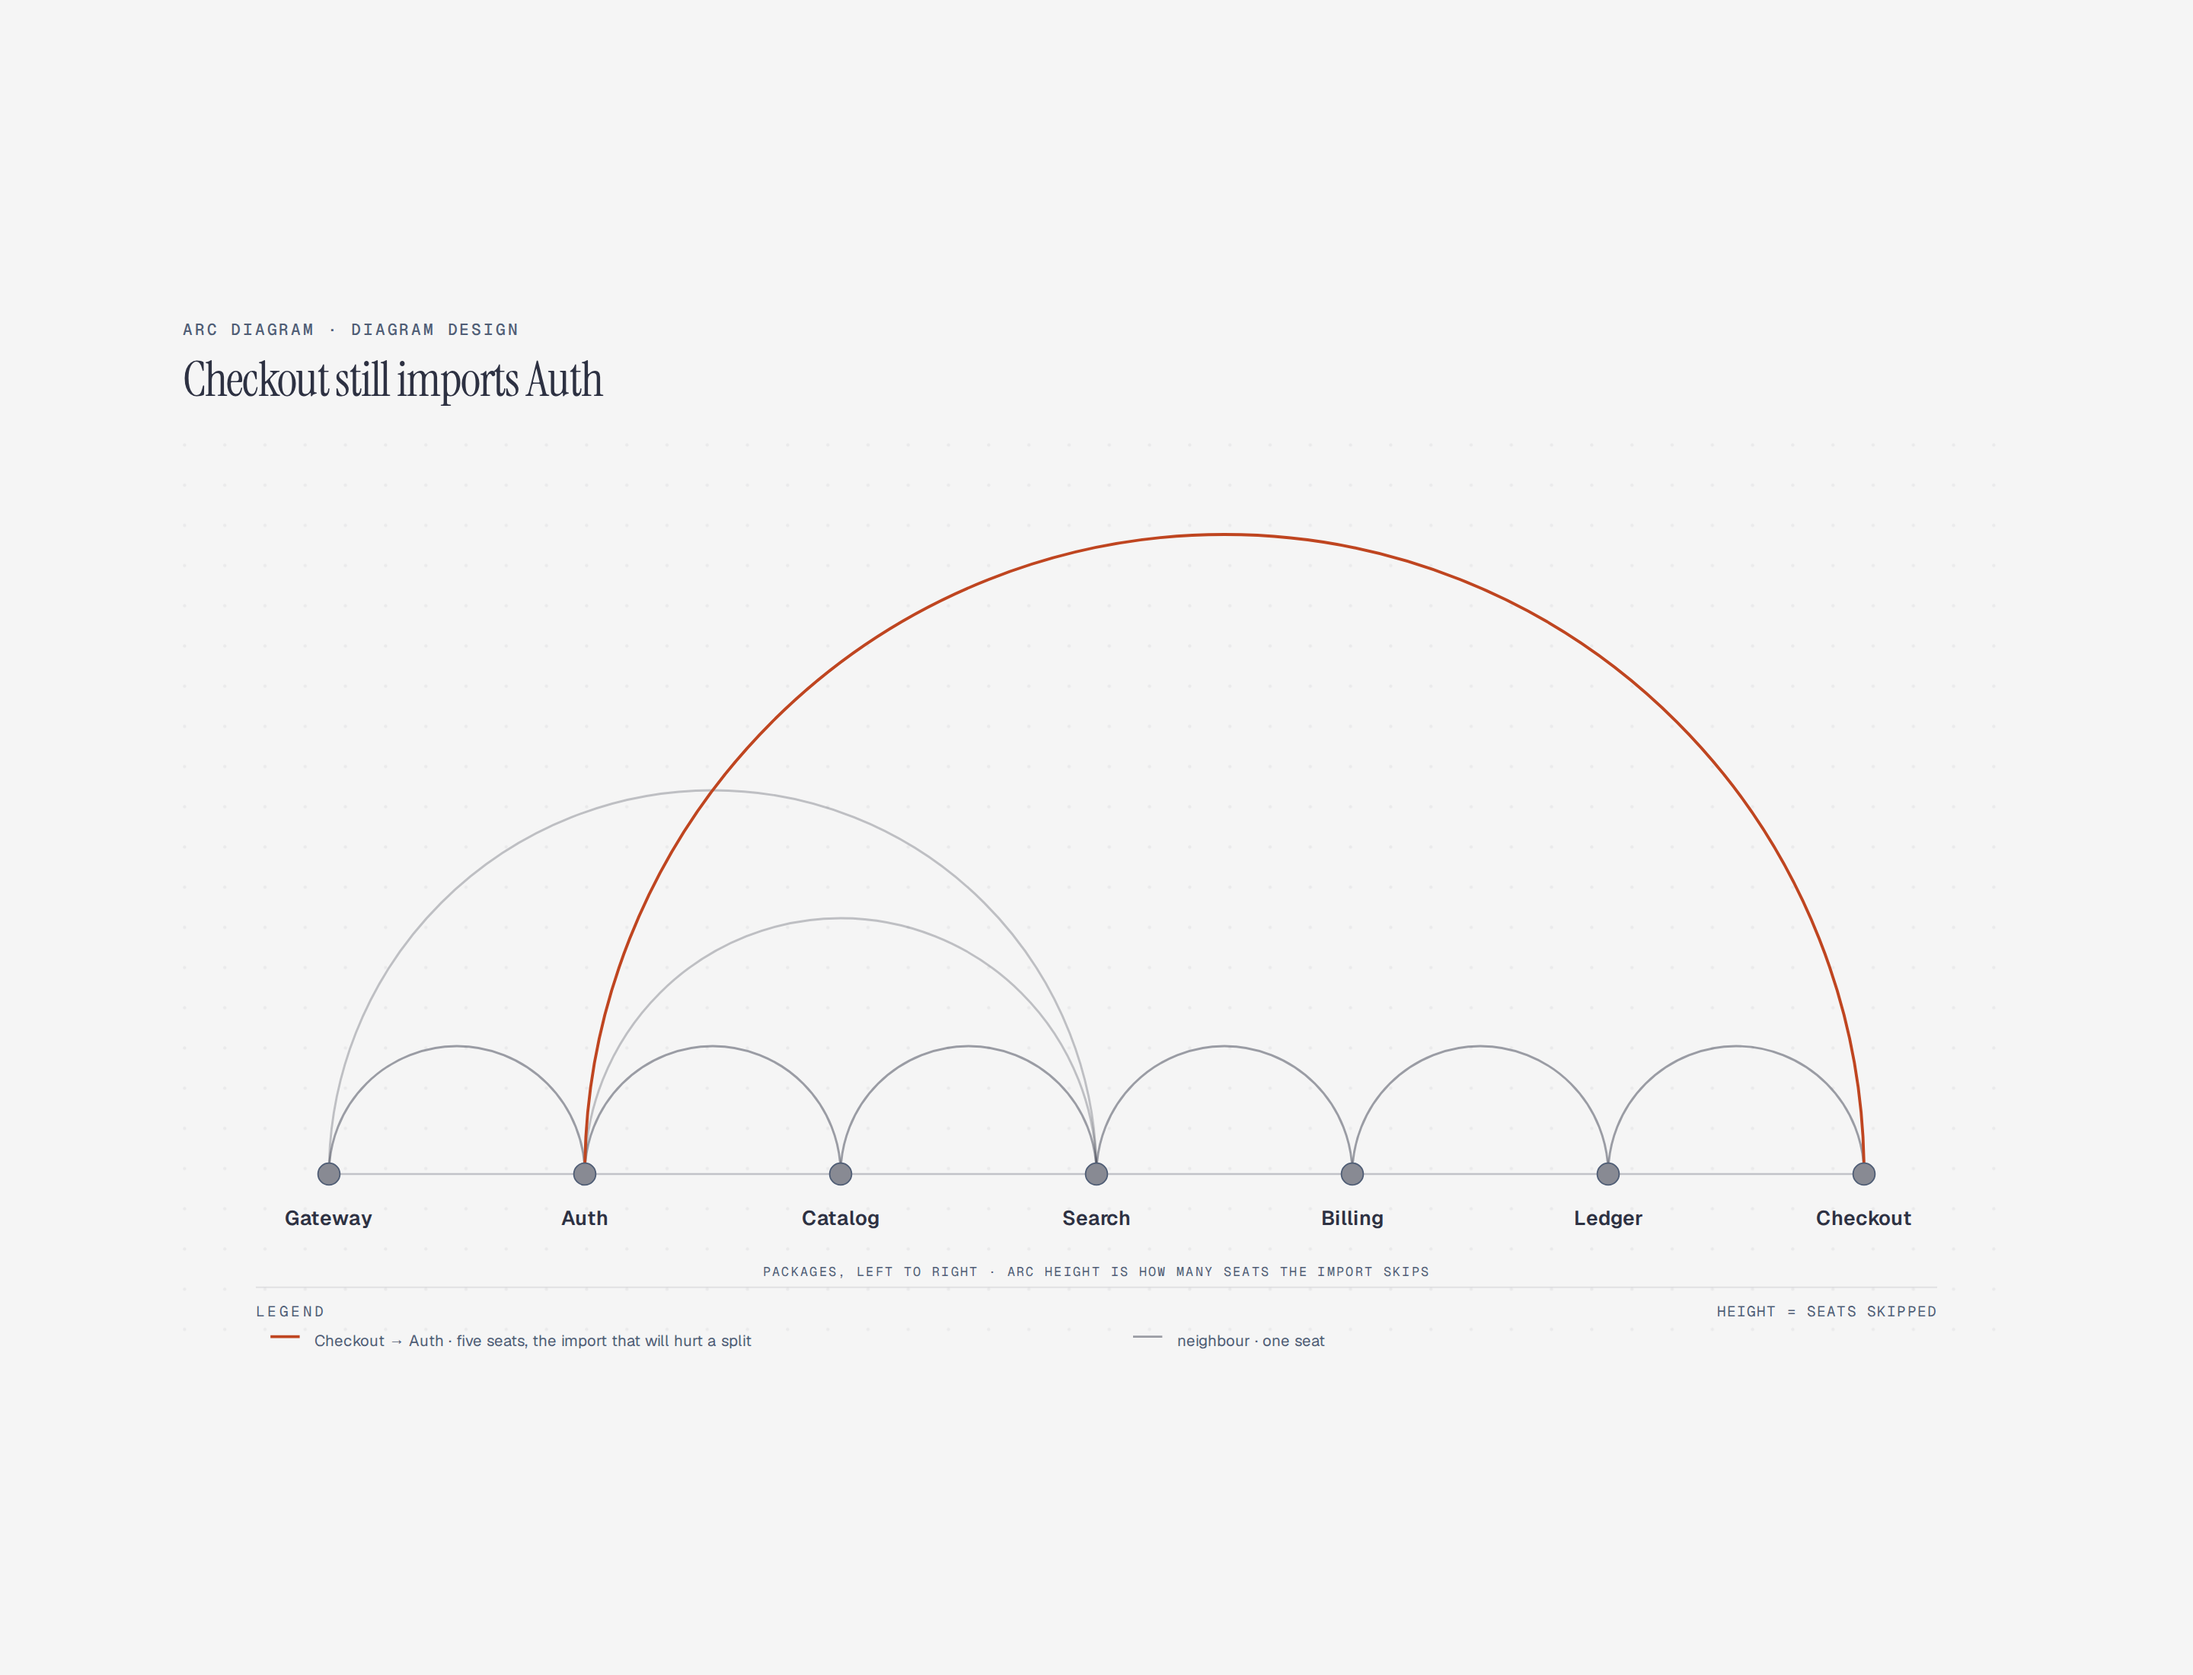
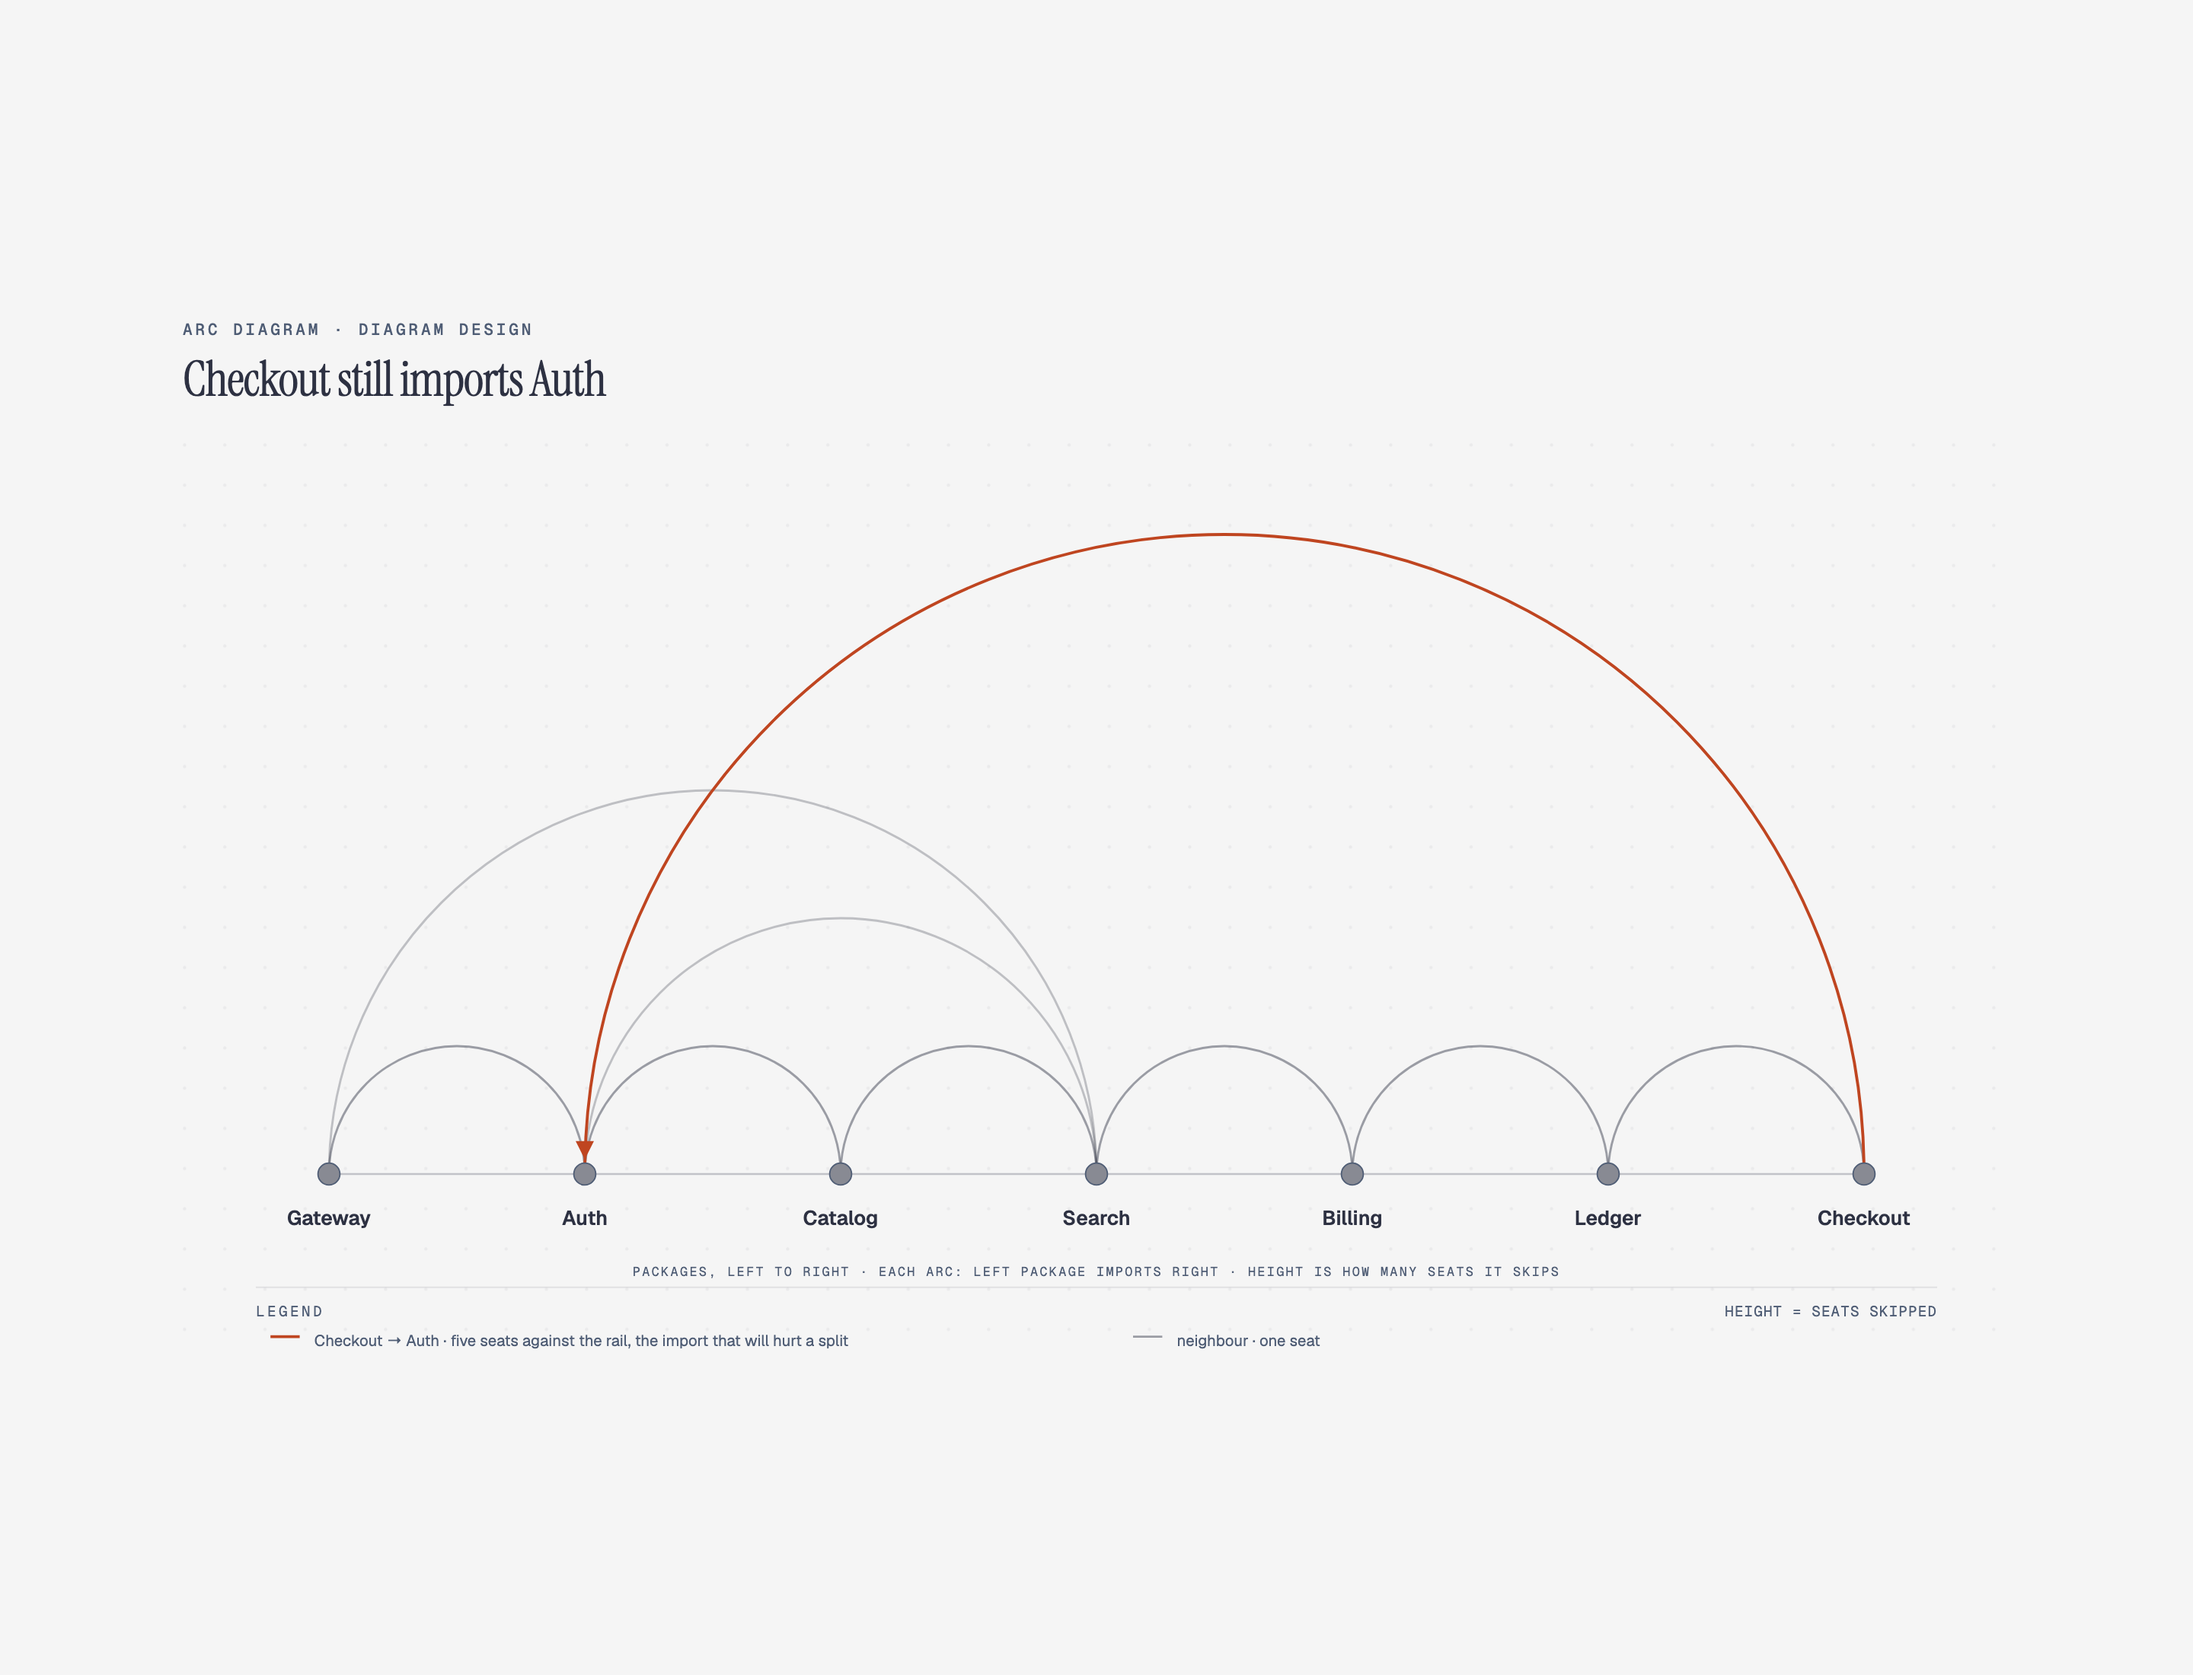
fix(arc-diagram): make import direction readable
Ordinary arcs now read left to right: the caption says the left package
imports the right one, and verify-arc-diagram.py rejects a muted arc that
imports leftward. The one import against the rail, Checkout -> Auth, keeps
the accent and gains an arrowhead on Auth. Arrowheads on every arc would
pile up at shared seats, where each arc lands vertically.

Applied to all three examples, documented in type-dependency.md, and the
PR previews are re-rendered.

diff --git a/skills/diagram-design/assets/example-arc-diagram-full.html b/skills/diagram-design/assets/example-arc-diagram-full.html
@@ -52,7 +52,7 @@
         </defs>
         <rect width="100%" height="100%" fill="#f5f5f5"/>
         <rect width="100%" height="100%" fill="url(#dots)" opacity="0.55"/>
-        <text x="500" y="456" fill="#4f5d75" font-size="7" font-family="'Geist Mono', monospace" letter-spacing="0.14em" text-anchor="middle">PACKAGES, LEFT TO RIGHT · ARC HEIGHT IS HOW MANY SEATS THE IMPORT SKIPS</text>
+        <text x="500" y="456" fill="#4f5d75" font-size="7" font-family="'Geist Mono', monospace" letter-spacing="0.14em" text-anchor="middle">PACKAGES, LEFT TO RIGHT · EACH ARC: LEFT PACKAGE IMPORTS RIGHT · HEIGHT IS HOW MANY SEATS IT SKIPS</text>
         <line x1="80" y1="400" x2="920" y2="400" stroke="rgba(45,49,66,0.25)" stroke-width="1"/>
 
         <!-- Span 3, then span 2, then neighbours, then the focal skip on top. -->
@@ -83,6 +83,8 @@
         <path data-from="Checkout" data-to="Auth" data-span="5"
               d="M 220,400 A 350,350 0 0 1 920,400"
               fill="none" stroke="#bf4520" stroke-width="1.6"/>
+        <!-- The one import against the rail: the arrowhead sits on Auth, the package it imports. -->
+        <polygon points="215,382 225,382 220,392" fill="#bf4520"/>
 
         <circle cx="80" cy="400" r="6" fill="#f5f5f5"/>
         <circle data-name="Gateway" cx="80" cy="400" r="6" fill="rgba(45,49,66,0.55)" stroke="#4f5d75" stroke-width="0.75"/>
@@ -110,7 +112,7 @@
         <text x="40" y="478" fill="#4f5d75" font-size="8" font-family="'Geist Mono', monospace" letter-spacing="0.18em">LEGEND</text>
         <text x="960" y="478" fill="#4f5d75" font-size="8" font-family="'Geist Mono', monospace" letter-spacing="0.06em" text-anchor="end">HEIGHT = SEATS SKIPPED</text>
         <line x1="48" y1="489" x2="64" y2="489" stroke="#bf4520" stroke-width="1.6"/>
-        <text x="72" y="494" fill="#4f5d75" font-size="8.5" font-family="'Geist', sans-serif">Checkout → Auth · five seats, the import that will hurt a split</text>
+        <text x="72" y="494" fill="#4f5d75" font-size="8.5" font-family="'Geist', sans-serif">Checkout → Auth · five seats against the rail, the import that will hurt a split</text>
         <line x1="520" y1="489" x2="536" y2="489" stroke="rgba(45,49,66,0.45)" stroke-width="1.2"/>
         <text x="544" y="494" fill="#4f5d75" font-size="8.5" font-family="'Geist', sans-serif">neighbour · one seat</text>
       </svg>

diff --git a/skills/diagram-design/assets/example-arc-diagram-dark.html b/skills/diagram-design/assets/example-arc-diagram-dark.html
@@ -42,7 +42,7 @@
       </defs>
       <rect width="100%" height="100%" fill="#2d3142"/>
       <rect width="100%" height="100%" fill="url(#dots)" opacity="0.55"/>
-      <text x="500" y="456" fill="#bfc0c0" font-size="7" font-family="'Geist Mono', monospace" letter-spacing="0.14em" text-anchor="middle">PACKAGES, LEFT TO RIGHT · ARC HEIGHT IS HOW MANY SEATS THE IMPORT SKIPS</text>
+      <text x="500" y="456" fill="#bfc0c0" font-size="7" font-family="'Geist Mono', monospace" letter-spacing="0.14em" text-anchor="middle">PACKAGES, LEFT TO RIGHT · EACH ARC: LEFT PACKAGE IMPORTS RIGHT · HEIGHT IS HOW MANY SEATS IT SKIPS</text>
       <line x1="80" y1="400" x2="920" y2="400" stroke="rgba(245,245,245,0.25)" stroke-width="1"/>
 
       <!-- Span 3, then span 2, then neighbours, then the focal skip on top. -->
@@ -73,6 +73,8 @@
       <path data-from="Checkout" data-to="Auth" data-span="5"
             d="M 220,400 A 350,350 0 0 1 920,400"
             fill="none" stroke="#f08a59" stroke-width="1.6"/>
+      <!-- The one import against the rail: the arrowhead sits on Auth, the package it imports. -->
+      <polygon points="215,382 225,382 220,392" fill="#f08a59"/>
 
       <circle cx="80" cy="400" r="6" fill="#2d3142"/>
       <circle data-name="Gateway" cx="80" cy="400" r="6" fill="rgba(245,245,245,0.55)" stroke="#bfc0c0" stroke-width="0.75"/>
@@ -100,7 +102,7 @@
       <text x="40" y="478" fill="#bfc0c0" font-size="8" font-family="'Geist Mono', monospace" letter-spacing="0.18em">LEGEND</text>
       <text x="960" y="478" fill="#bfc0c0" font-size="8" font-family="'Geist Mono', monospace" letter-spacing="0.06em" text-anchor="end">HEIGHT = SEATS SKIPPED</text>
       <line x1="48" y1="489" x2="64" y2="489" stroke="#f08a59" stroke-width="1.6"/>
-      <text x="72" y="494" fill="#bfc0c0" font-size="8.5" font-family="'Geist', sans-serif">Checkout → Auth · five seats, the import that will hurt a split</text>
+      <text x="72" y="494" fill="#bfc0c0" font-size="8.5" font-family="'Geist', sans-serif">Checkout → Auth · five seats against the rail, the import that will hurt a split</text>
       <line x1="520" y1="489" x2="536" y2="489" stroke="rgba(245,245,245,0.45)" stroke-width="1.2"/>
       <text x="544" y="494" fill="#bfc0c0" font-size="8.5" font-family="'Geist', sans-serif">neighbour · one seat</text>
     </svg>

diff --git a/skills/diagram-design/assets/example-arc-diagram.html b/skills/diagram-design/assets/example-arc-diagram.html
@@ -42,7 +42,7 @@
       </defs>
       <rect width="100%" height="100%" fill="#f5f5f5"/>
       <rect width="100%" height="100%" fill="url(#dots)" opacity="0.55"/>
-      <text x="500" y="456" fill="#4f5d75" font-size="7" font-family="'Geist Mono', monospace" letter-spacing="0.14em" text-anchor="middle">PACKAGES, LEFT TO RIGHT · ARC HEIGHT IS HOW MANY SEATS THE IMPORT SKIPS</text>
+      <text x="500" y="456" fill="#4f5d75" font-size="7" font-family="'Geist Mono', monospace" letter-spacing="0.14em" text-anchor="middle">PACKAGES, LEFT TO RIGHT · EACH ARC: LEFT PACKAGE IMPORTS RIGHT · HEIGHT IS HOW MANY SEATS IT SKIPS</text>
       <line x1="80" y1="400" x2="920" y2="400" stroke="rgba(45,49,66,0.25)" stroke-width="1"/>
 
       <!-- Span 3, then span 2, then neighbours, then the focal skip on top. -->
@@ -73,6 +73,8 @@
       <path data-from="Checkout" data-to="Auth" data-span="5"
             d="M 220,400 A 350,350 0 0 1 920,400"
             fill="none" stroke="#bf4520" stroke-width="1.6"/>
+      <!-- The one import against the rail: the arrowhead sits on Auth, the package it imports. -->
+      <polygon points="215,382 225,382 220,392" fill="#bf4520"/>
 
       <circle cx="80" cy="400" r="6" fill="#f5f5f5"/>
       <circle data-name="Gateway" cx="80" cy="400" r="6" fill="rgba(45,49,66,0.55)" stroke="#4f5d75" stroke-width="0.75"/>
@@ -100,7 +102,7 @@
       <text x="40" y="478" fill="#4f5d75" font-size="8" font-family="'Geist Mono', monospace" letter-spacing="0.18em">LEGEND</text>
       <text x="960" y="478" fill="#4f5d75" font-size="8" font-family="'Geist Mono', monospace" letter-spacing="0.06em" text-anchor="end">HEIGHT = SEATS SKIPPED</text>
       <line x1="48" y1="489" x2="64" y2="489" stroke="#bf4520" stroke-width="1.6"/>
-      <text x="72" y="494" fill="#4f5d75" font-size="8.5" font-family="'Geist', sans-serif">Checkout → Auth · five seats, the import that will hurt a split</text>
+      <text x="72" y="494" fill="#4f5d75" font-size="8.5" font-family="'Geist', sans-serif">Checkout → Auth · five seats against the rail, the import that will hurt a split</text>
       <line x1="520" y1="489" x2="536" y2="489" stroke="rgba(45,49,66,0.45)" stroke-width="1.2"/>
       <text x="544" y="494" fill="#4f5d75" font-size="8.5" font-family="'Geist', sans-serif">neighbour · one seat</text>
     </svg>

diff --git a/scripts/verify-arc-diagram.py b/scripts/verify-arc-diagram.py
@@ -530,6 +530,13 @@ def check_geometry(nodes: list, arcs: list, findings: list, name: str) -> None:
                 "apart — span is |i−j| on the rail"
                 % (where, arc.frm, arc.to, arc.span, expected_span)
             )
+        if not arc.accent and index[arc.frm] > index[arc.to]:
+            findings.append(
+                "%s: muted arc %s→%s imports leftward — ordinary arcs read "
+                "left to right (the left seat imports the right one), so an "
+                "import against the rail must be the accent arc with an "
+                "arrowhead at the package it imports" % (where, arc.frm, arc.to)
+            )
         left = min(by_name[arc.frm].cx, by_name[arc.to].cx)
         right = max(by_name[arc.frm].cx, by_name[arc.to].cx)
         ends = sorted([arc.x1, arc.x2])

diff --git a/scripts/test-verify-arc-diagram.py b/scripts/test-verify-arc-diagram.py
@@ -222,6 +222,21 @@ def run_cases(h: Harness) -> int:
     )
 
     h.expect_findings(
+        "a muted arc that imports leftward is one finding",
+        honest().replace(
+            'data-from="C" data-to="D"', 'data-from="D" data-to="C"', 1,
+        ),
+        1, "imports leftward",
+    )
+
+    h.expect_clean(
+        "the accent arc may import leftward",
+        honest().replace(
+            'data-from="A" data-to="E"', 'data-from="E" data-to="A"', 1,
+        ),
+    )
+
+    h.expect_findings(
         "sweep 0 draws the import under the seats",
         honest().replace(
             arc("A", "C", 2, 0, 2),

diff --git a/skills/diagram-design/references/type-dependency.md b/skills/diagram-design/references/type-dependency.md
@@ -65,6 +65,7 @@ Not for: a node with many parents that need rank rows (that is the parent depend
 - **One baseline, one pitch.** A node off the rail, or a seat that is a different width from its neighbours, makes two spans of the same count draw at two heights.
 - **`data-span` equals `|i−j|`.** Declaring 2 for a five-seat skip, or drawing a neighbour at a skip's radius, is the type's unforgivable error.
 - **Endpoints are the named nodes.** A path that names Auth and Checkout but lands on Catalog is a different import.
+- **Direction reads off the rail.** Every muted arc runs left to right: its left seat imports its right one, so order the rail by import direction and say so in the caption. The one import against the rail is the accent arc, with a small accent arrowhead on the package it imports. Arrowheads on every arc would pile up at shared seats, where each arc lands vertically.
 
 #### Declaring the values
 
@@ -87,7 +88,7 @@ What each binding buys, and what it costs to omit:
 | `data-from` / `data-to` | A path that names two packages but lands on two others still looks like their import. |
 | `data-name` on the node circle and its label | Two labels exchanged along the rail rename both packages, with every span still correct in isolation. |
 
-`scripts/verify-arc-diagram.py` derives the pitch from the nodes, requires a rising semicircle whose radius matches both the endpoint distance and `pitch · span / 2`, refuses a second accent arc, and checks every bound label against the node it names; `scripts/test-verify-arc-diagram.py` proves each check in both polarities and pins the sibling scope treaty in both directions.
+`scripts/verify-arc-diagram.py` derives the pitch from the nodes, requires a rising semicircle whose radius matches both the endpoint distance and `pitch · span / 2`, refuses a second accent arc or a muted arc that imports leftward, and checks every bound label against the node it names; `scripts/test-verify-arc-diagram.py` proves each check in both polarities and pins the sibling scope treaty in both directions.
 
 **Nothing may position a mark except its own attributes.** The checker reads raw `cx`/`d`/`x`, so anything applied afterwards invalidates the check that passed. Every carrier is refused — the `transform` attribute, an inline `style="…"`, and a rule in a `<style>` block — on a node, on an arc, on a bound label, or on an ancestor `<g>`/`<svg>`. Bake the offset into the coordinates.
 
